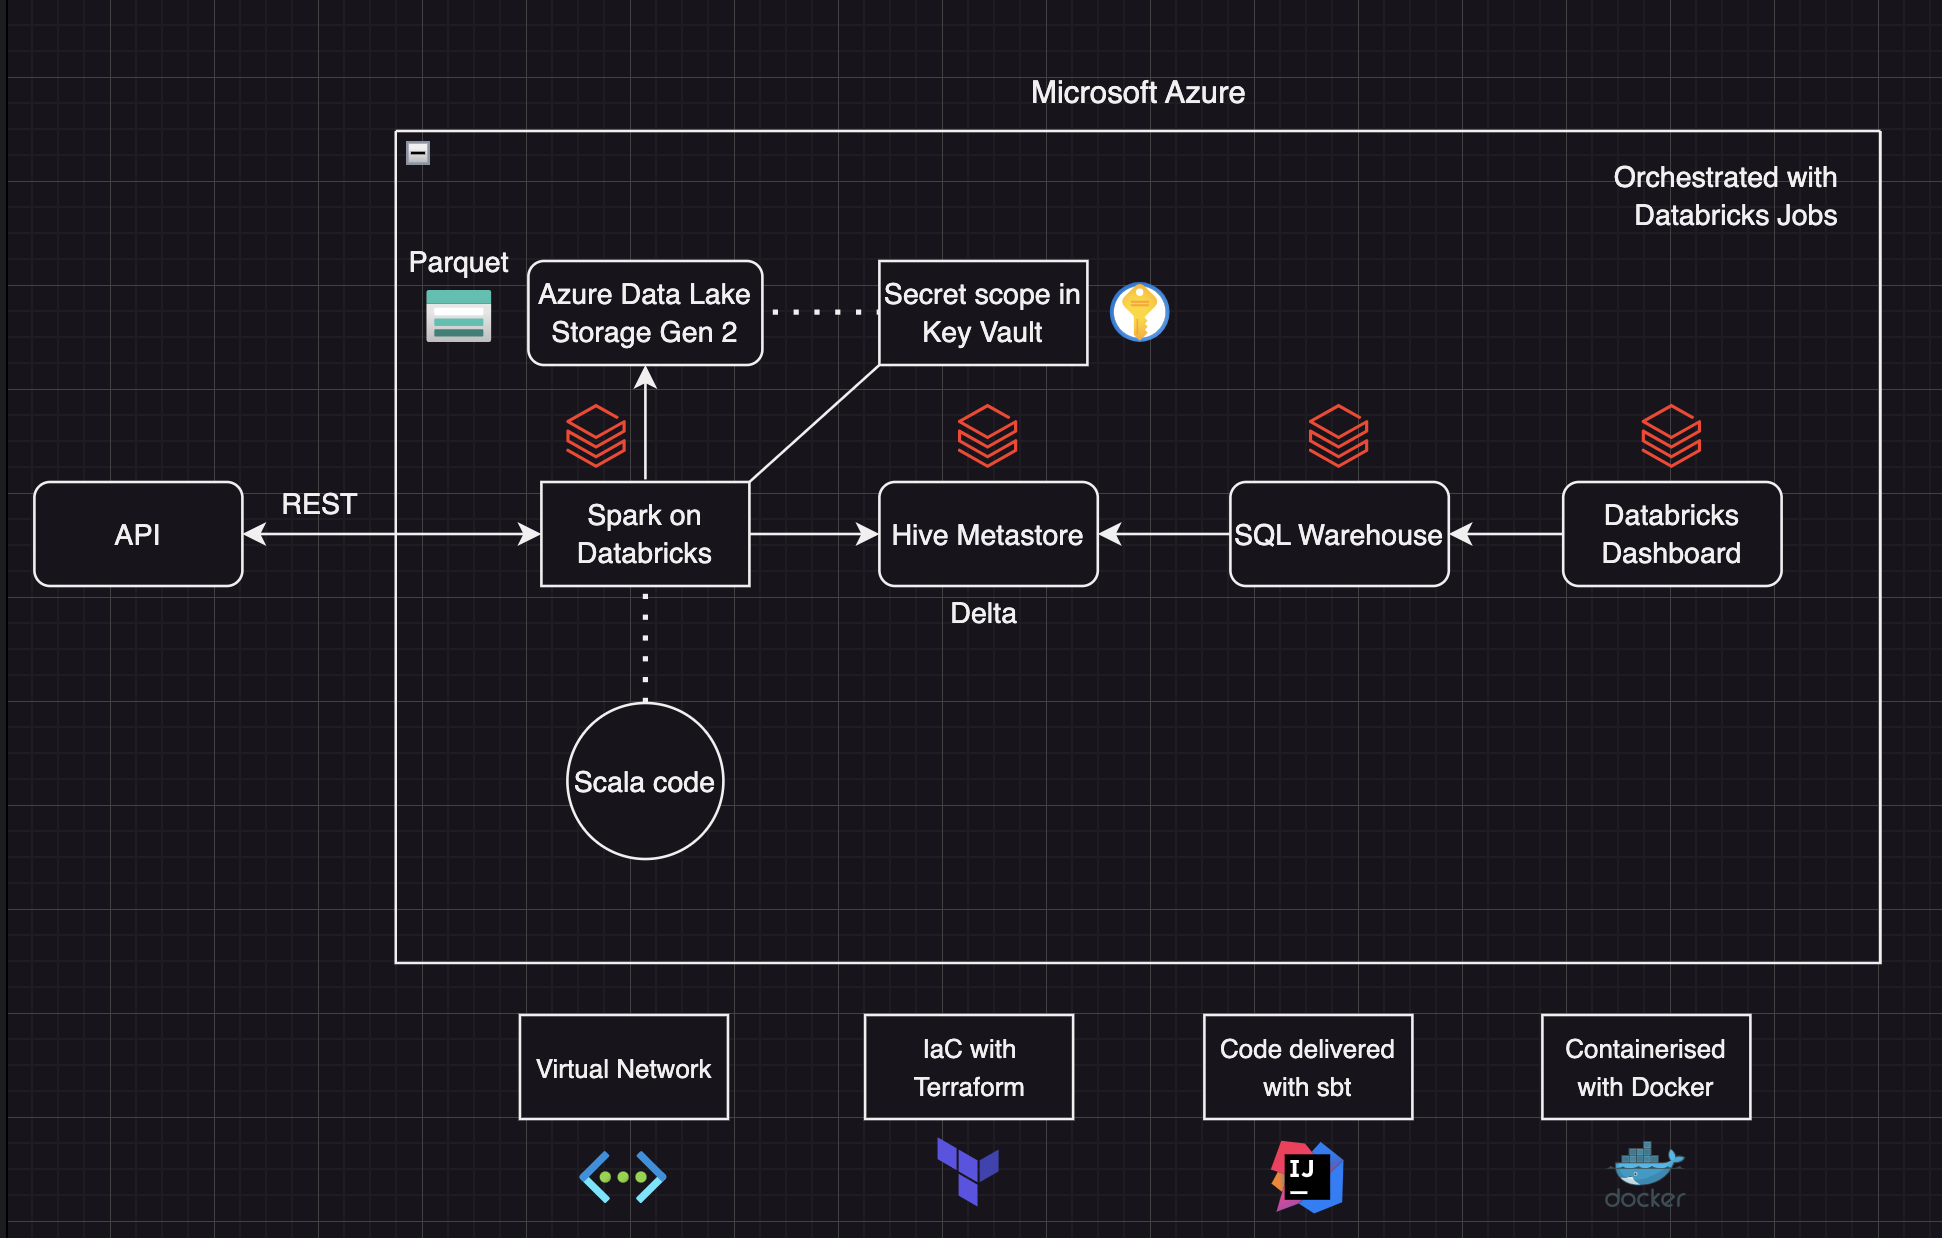
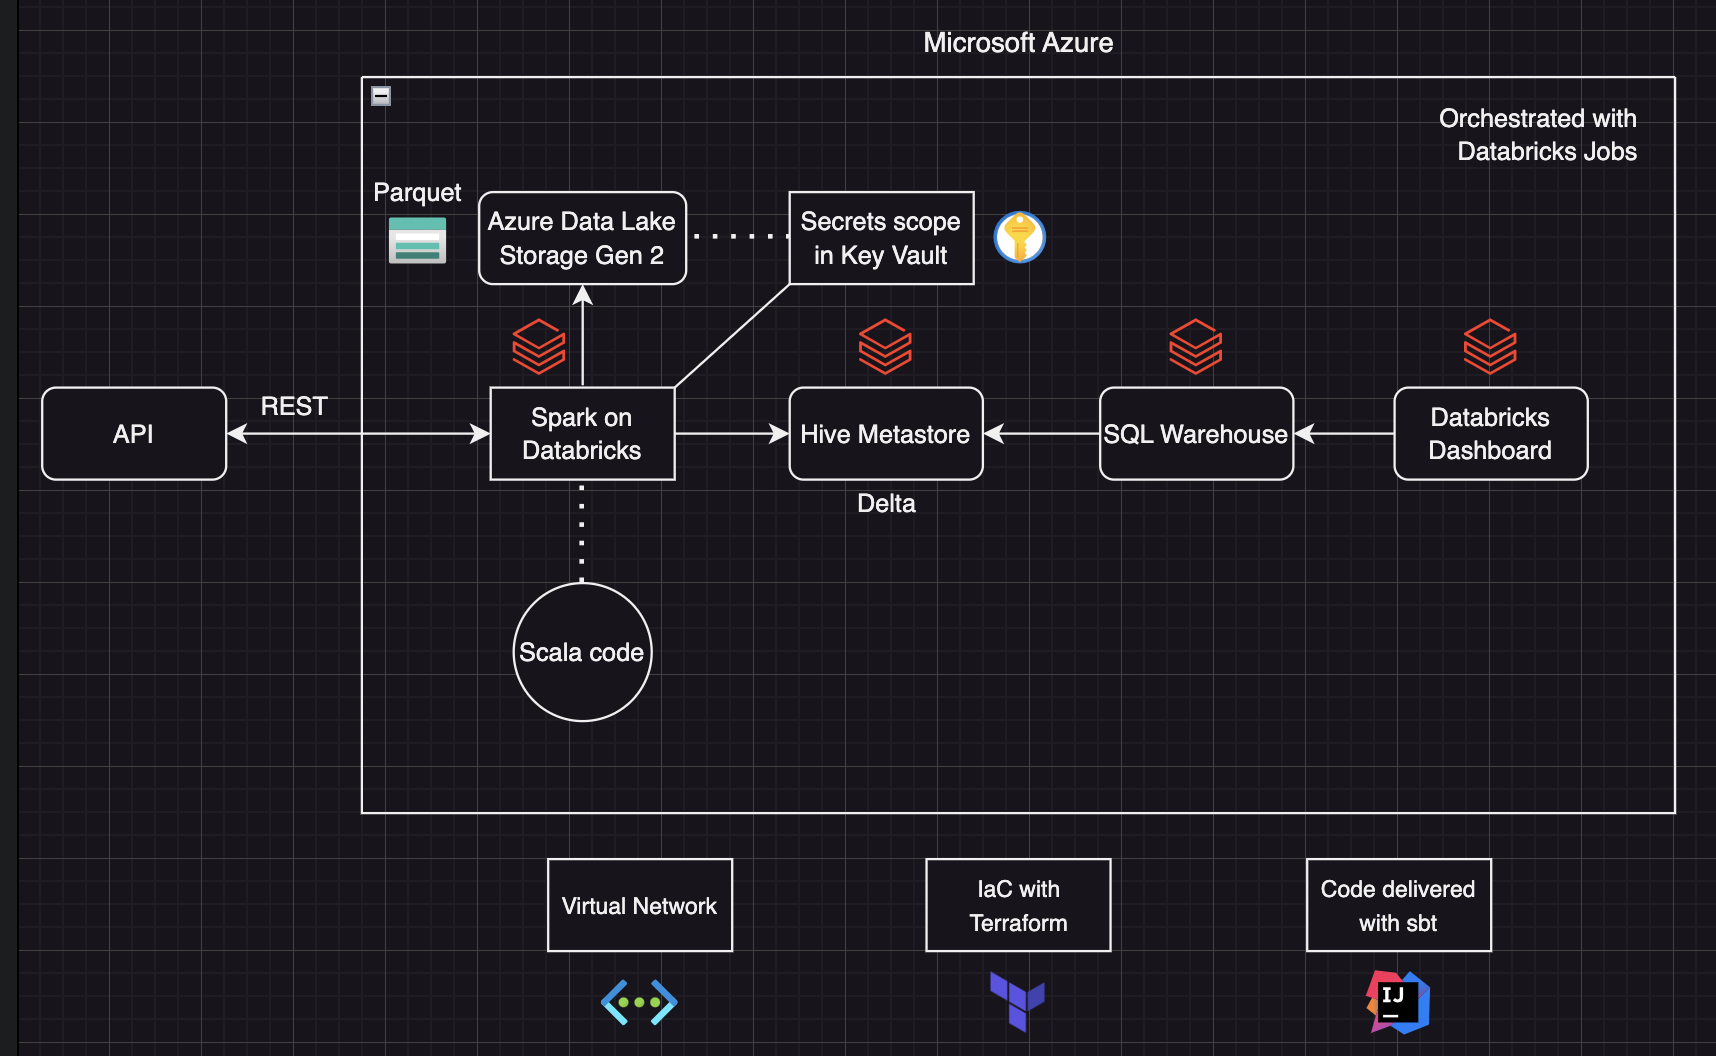
docs: update documentation

diff --git a/concept.md b/concept.md
@@ -1,23 +1,21 @@
 # Weather Pipeline
 
-This project aims to integrate the technologies learnt during the bootcamp and through certifications into a deliverable application.
-In doing so, practical experience will be gained.
+This project aims to integrate the technologies learnt during the bootcamp and through certifications into a deliverable application.  
+In doing so, I gain practical experience.  
 
 ## Domain
 
-The domain of this project will be descriptive & predictive analytics for weather.
+The domain of this project is be descriptive & predictive analytics for weather.
 More specifically, real-time weather information and current day predictions.
 
 ## Value
 
-By taking a quick glance at the dashboard, the consumer will be able to retrieve insights regarding the weather for the day.
-For example, knowing what clothing to wear and whether it will rain or not.
-Once the fundaments have been developed, it should be able to be easily extended with modules containing extra information.
+By taking a quick glance at the dashboard, the consumer will be able to retrieve insights regarding the weather for the day.  
+It is easily extentable with modules.
 
 ## Goals
 
 Create a basic pipeline which retrieves data on weather through an API, processes it, stores it and delivers it to a dashboard.
-Use a multitude of cloud services
 
 ## Functional Requirements
 
@@ -25,12 +23,14 @@ The application code itself should be programmed in Scala.
 The pipeline should be completely cloud-based (Microsoft Azure).  
 The data processing should be done using Apache Spark.  
 The infrastructure for this pipeline should be constructed through Terraform.  
-The final application should be containerised with Docker.  
 
 ## Non-functional Requirements
 
 Security:  
-All configuration secrets should be stored in the cloud.  
+All secrets should be stored in the cloud.  
 
 Cost:  
-Cloud costs should be kept to a minimum. Budgets & estimations are included to prevent cost issues.
+Cloud costs should be kept to a minimum. Budgets & estimations are included to prevent cost issues.  
+
+Documentation:  
+The project should be well-documented.  

diff --git a/README.md b/README.md
@@ -6,8 +6,51 @@ This application is a basic pipeline which retrieves data on weather through an 
 ## Requirements
 
 - Tomorrow.io REST Weather API key
-- Docker
-- Azure Cloud Subscription with permissions
+- Terraform version 1.7.0
+- Azure CLI installed
+- Azure Cloud Service Principal with Contributor role
+- Azure resource group, storage account, storage container with account key for Terraform backend.
+
+## Setup
+
+### Create service principal using terminal (if created skip to create configuration)
+
+`az login`  
+`az account set --subscription="${id}`  
+`az ad sp create-for-rbac --role="Contributor" --scopes="/subscriptions/${id}"` 
+
+{  
+  "appId": "...",  
+  "displayName": "...",  
+  "password": "...",  
+  "tenant": ".."  
+}  
+
+### Create configuration
+
+Fill in the following configuration files (replace ${...} with "value"):  
+
+[Backend configuration](/code/terraform/user-backend.config)  
+[Terraform configuration](/code/terraform/user.tfvars)  
+
+client_id = appId  
+client_secret = password  
+tenant_id = tenant  
+subscription_id = id  
+
+### Run application
+
+Run the following commands in terminal:
+
+`cd code/terraform/`  
+`terraform init -reconfigure -upgrade -backend-config=user-backend.config`  
+`terraform apply`  
+
+Wait 10-15 minutes.  
+Login to your Azure portal, open Azure Databricks and view the weather dashboard under all dashboards.  
+Job runs can be viewed under workflow.  
+
+**Run `terraform destroy` when you are done viewing the application!**
 
 ## Documentation
 

diff --git a/documentation/architecture/architecture.md b/documentation/architecture/architecture.md
@@ -88,6 +88,7 @@ Small transformations such as adding measurement units and extracting time are p
 The dashboard is a Databricks SQL Dashboard.  
 Each query is displayed through a detailed view vizualisation and linked with a dashboard widget.  
 For hourly and daily data, the user can cycle through the forecasts.  
+The time displayed in the dashboard is in UTC due to an API limitation.
 
 [Dashboard](/code/terraform/modules/databricks/visualisation/main.tf)
 
@@ -111,9 +112,3 @@ This application uses a service principal with contributor role as authenticatio
 The sensitive variables are inserted with an .auto.tfvars file.
 
 [Terraform code](/code/terraform/main.tf)
-
-## Docker
-
-The application is delivered as a Dockerfile.  
-
-[Docker code](/Dockerfile)
